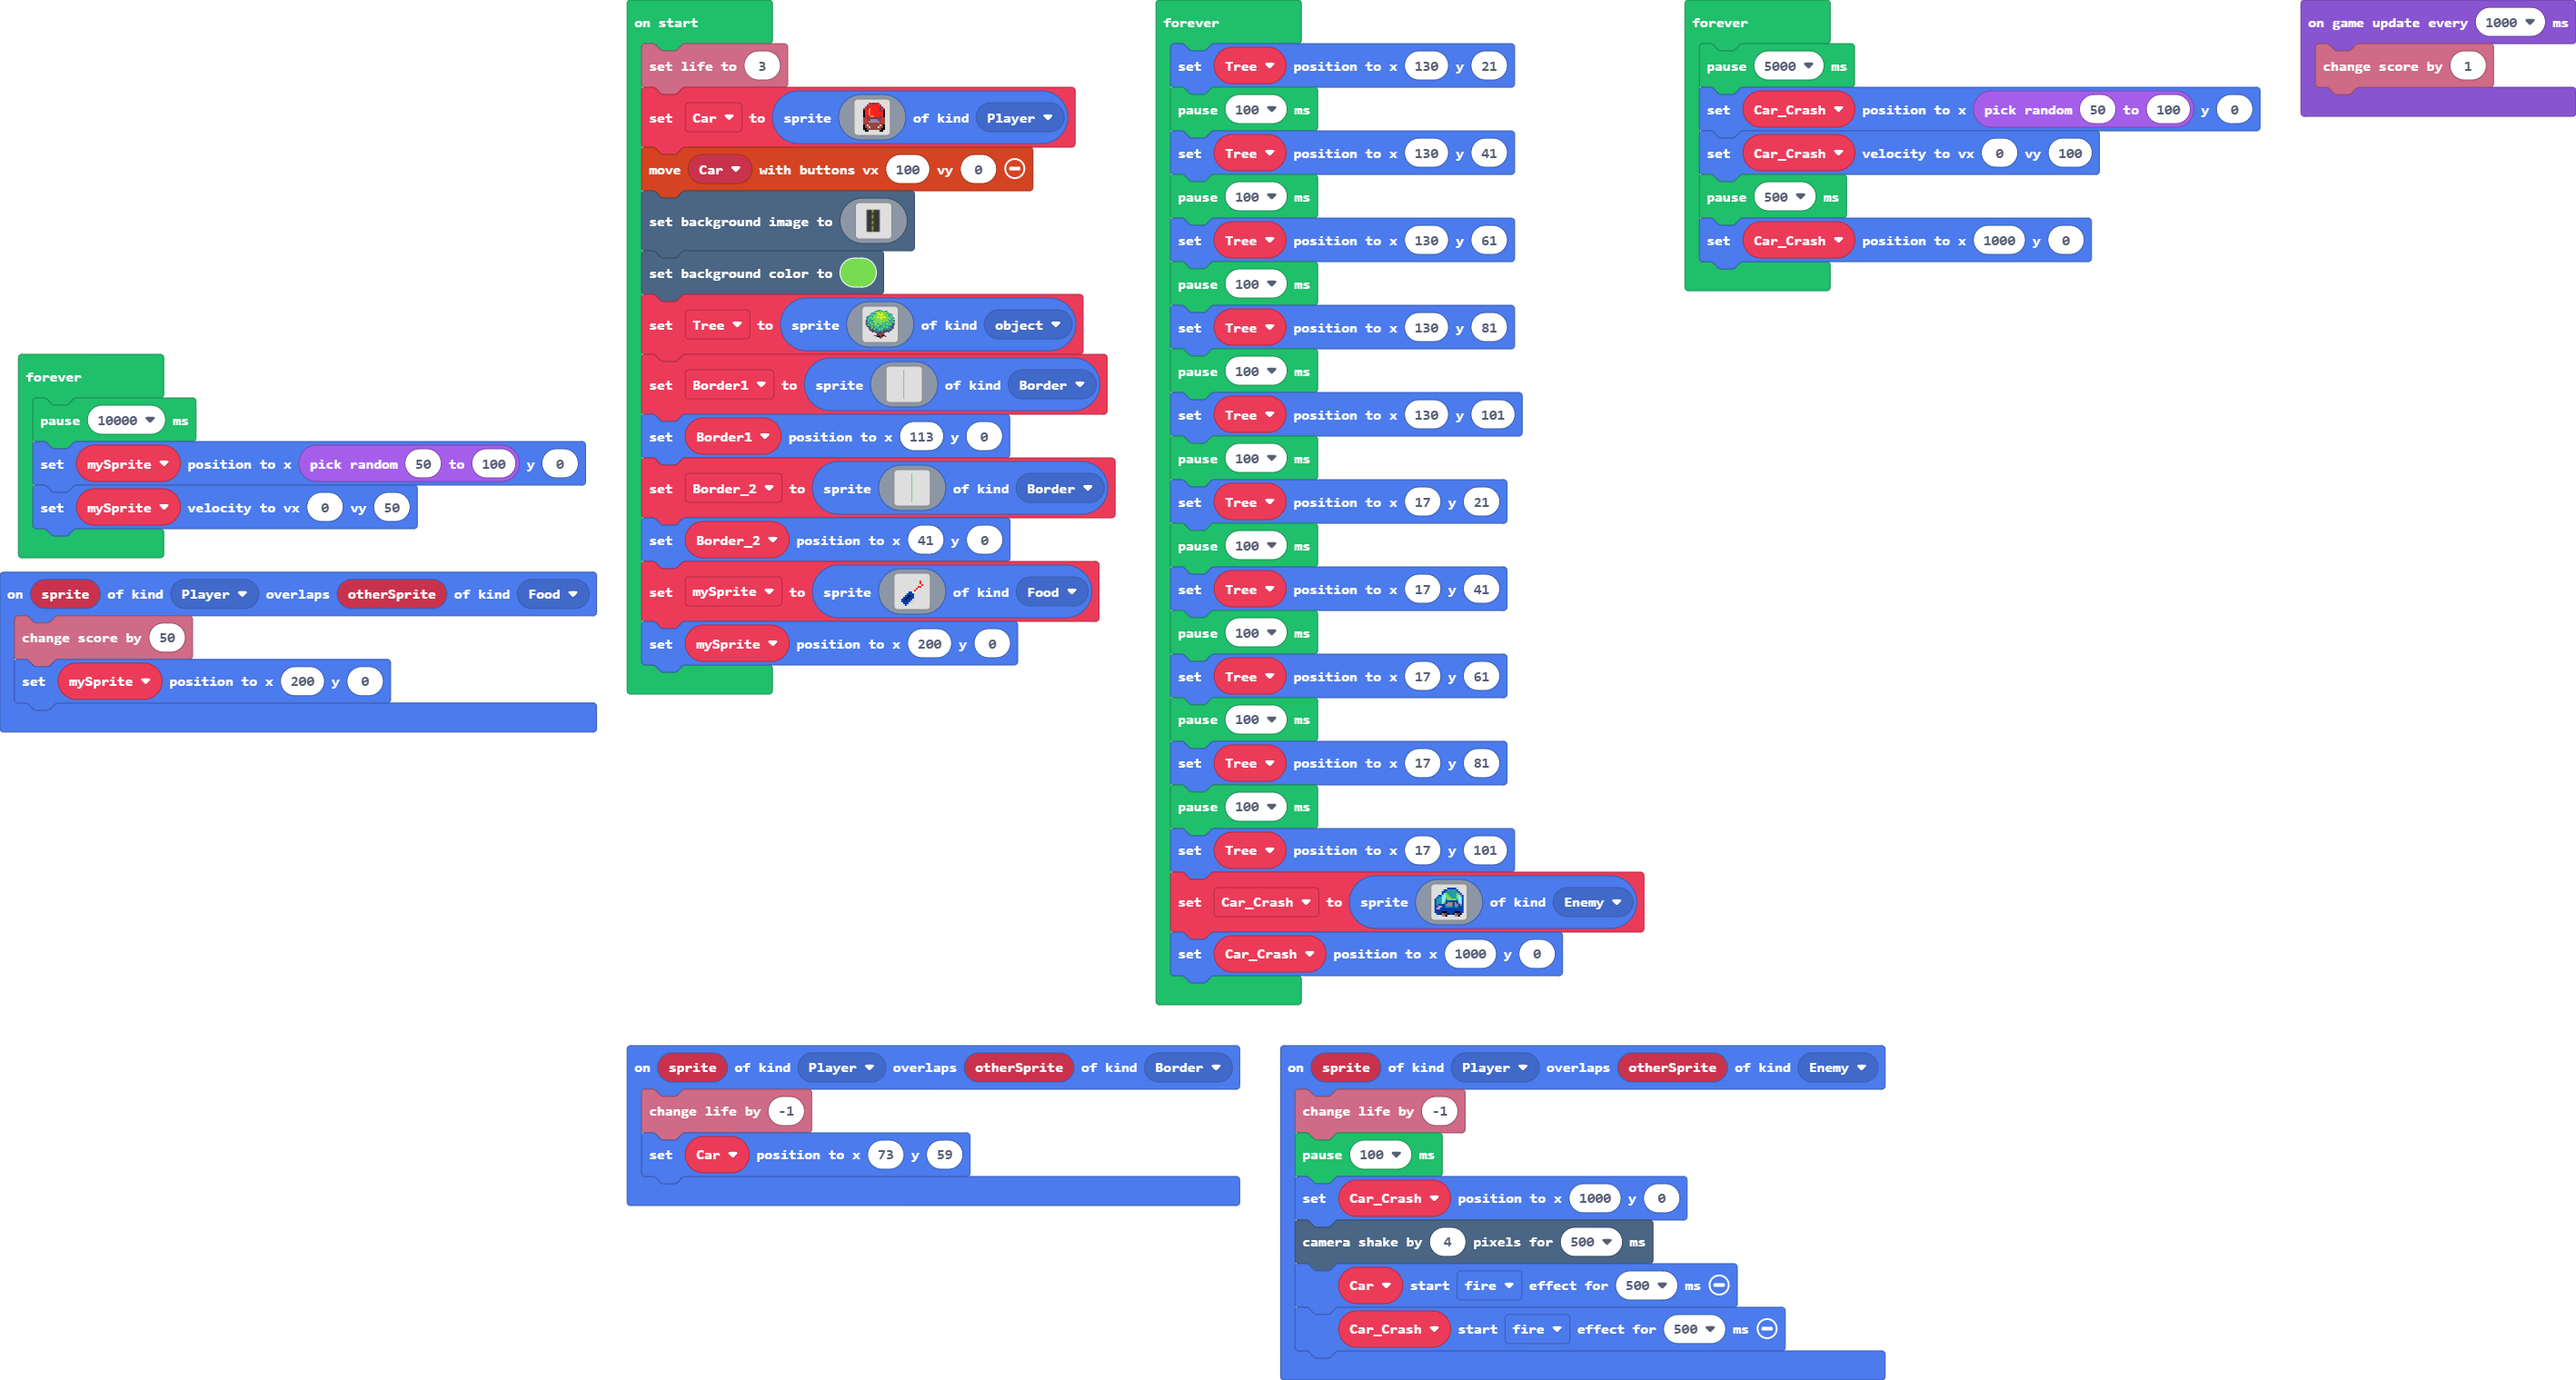
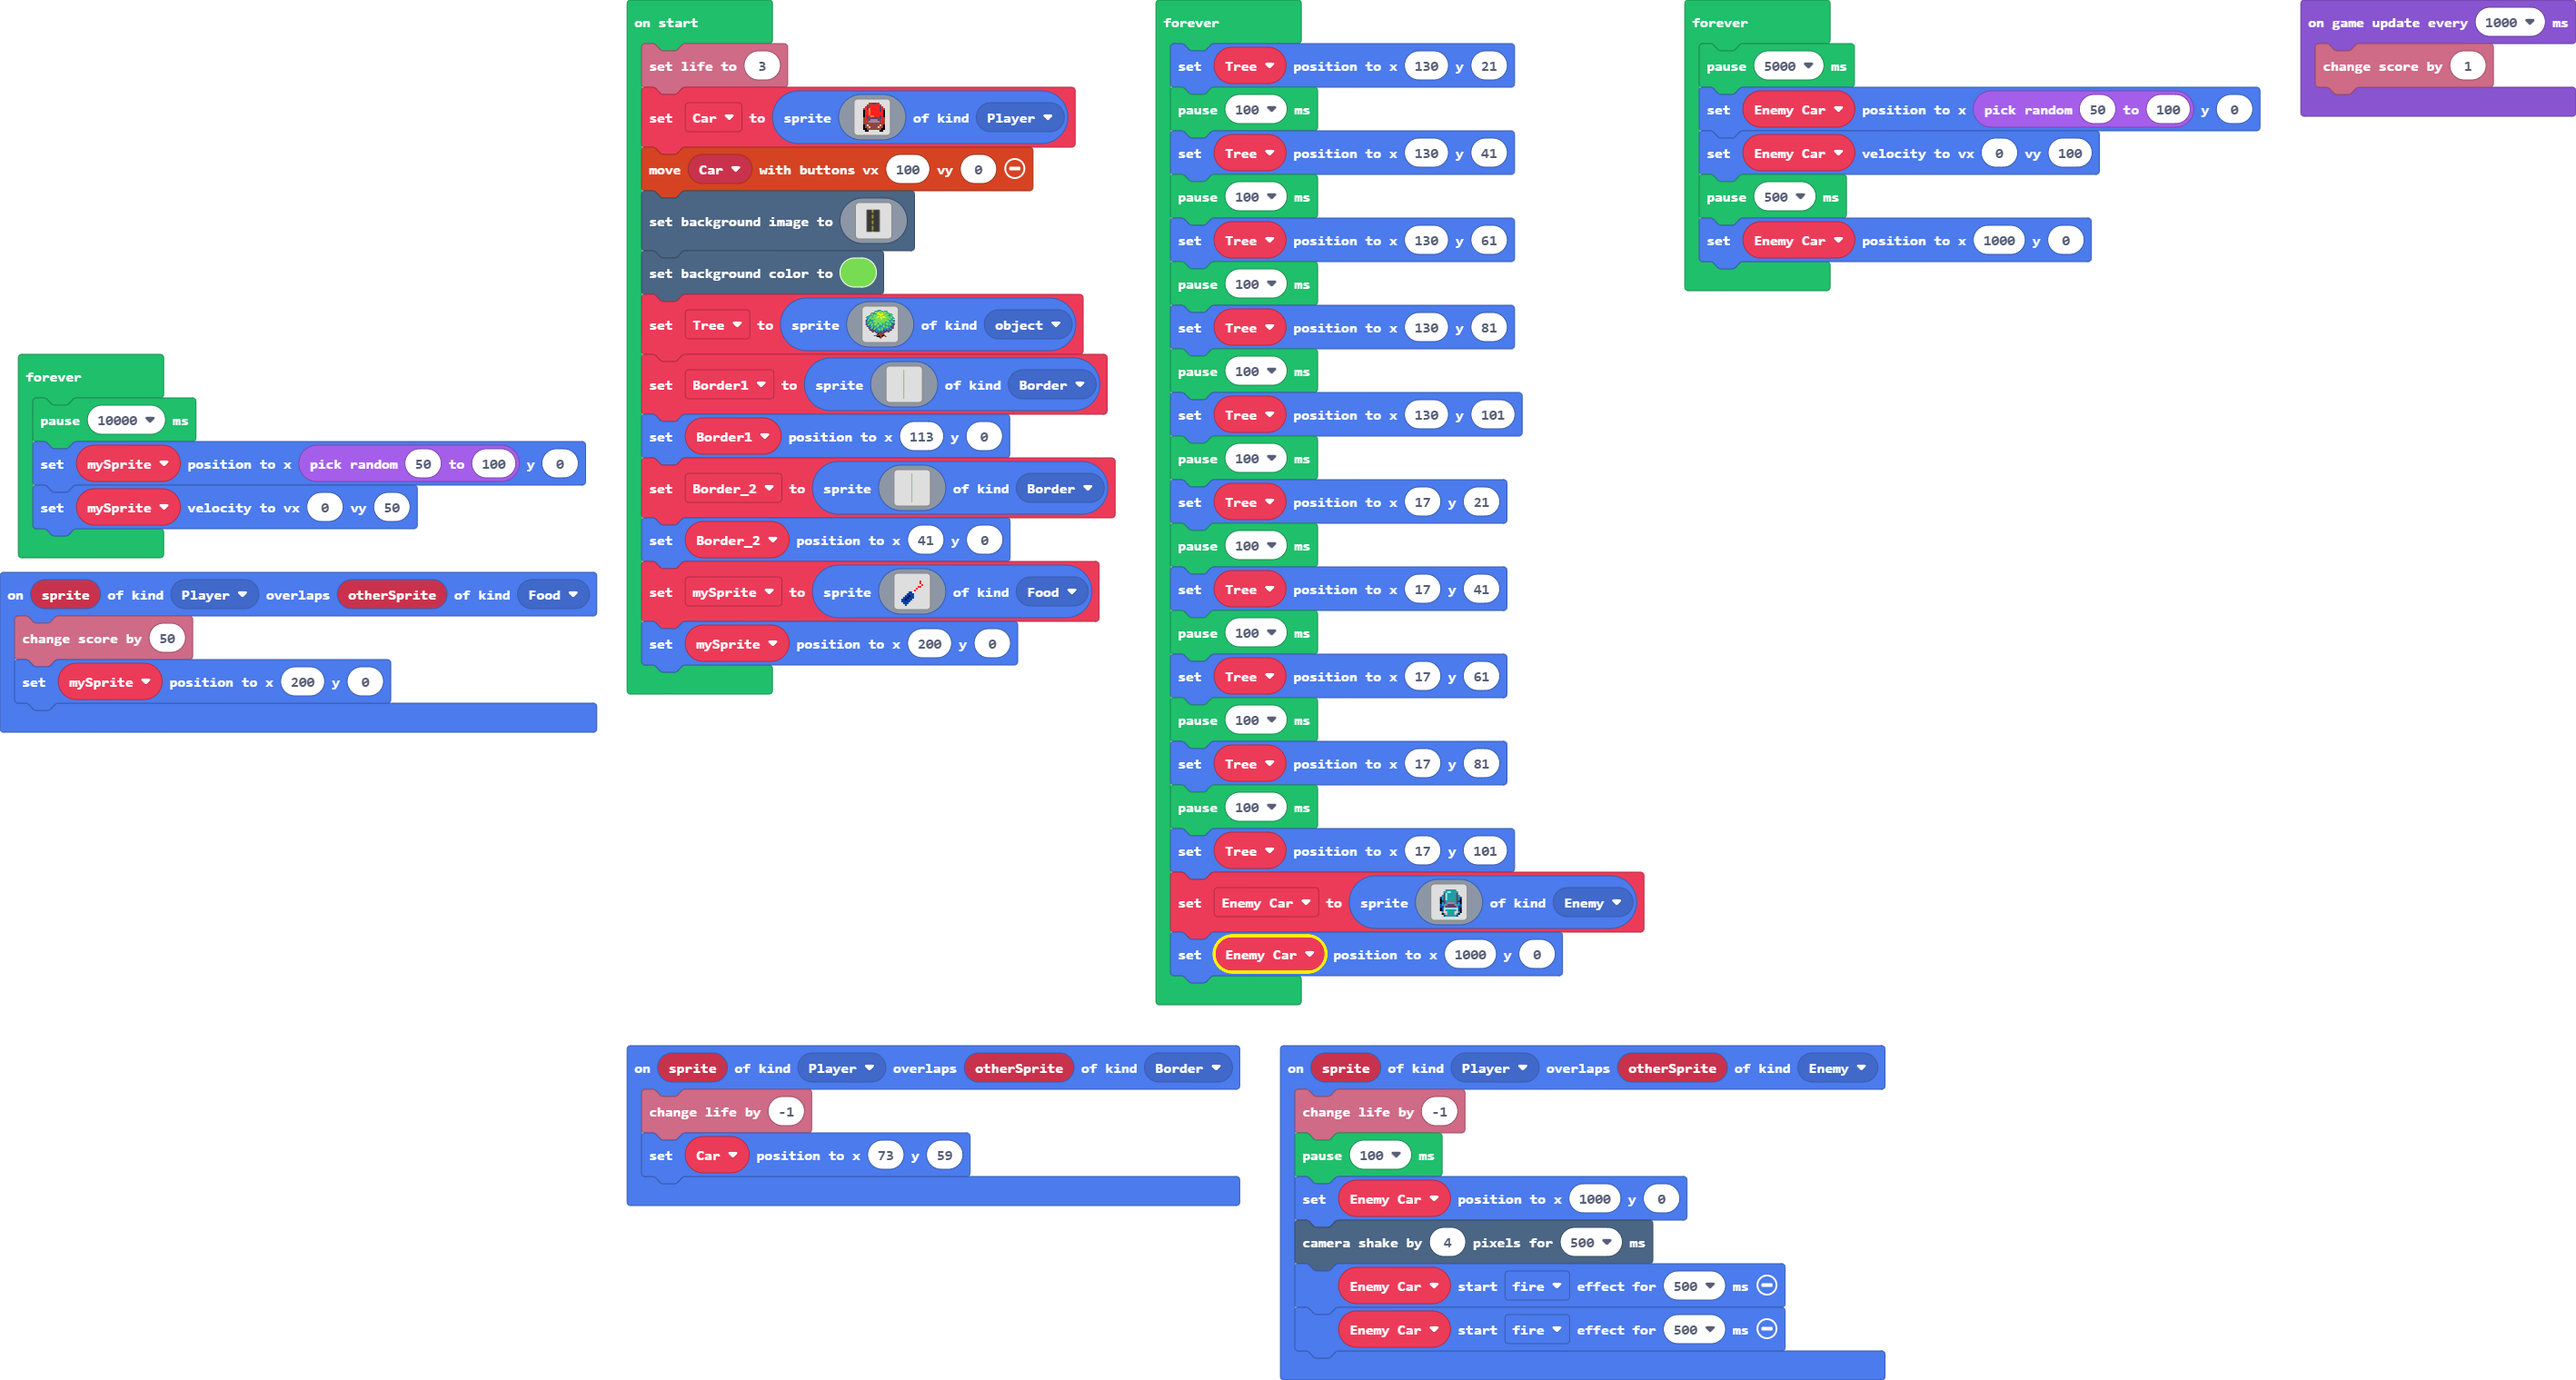
Update main.blocks, main.ts

diff --git a/main.ts b/main.ts
@@ -13,12 +13,12 @@ sprites.onOverlap(SpriteKind.Player, SpriteKind.Food, function (sprite, otherSpr
 sprites.onOverlap(SpriteKind.Player, SpriteKind.Enemy, function (sprite, otherSprite) {
     info.changeLifeBy(-1)
     pause(100)
-    Car_Crash.setPosition(1000, 0)
+    Enemy_Car.setPosition(1000, 0)
     scene.cameraShake(4, 500)
-    Car.startEffect(effects.fire, 500)
-    Car_Crash.startEffect(effects.fire, 500)
+    Enemy_Car.startEffect(effects.fire, 500)
+    Enemy_Car.startEffect(effects.fire, 500)
 })
-let Car_Crash: Sprite = null
+let Enemy_Car: Sprite = null
 let mySprite: Sprite = null
 let Car: Sprite = null
 info.setLife(3)
@@ -1246,32 +1246,32 @@ forever(function () {
     Tree.setPosition(17, 81)
     pause(100)
     Tree.setPosition(17, 101)
-    Car_Crash = sprites.create(img`
-        . . . . . . . 8 8 8 8 8 . . . . 
-        . . . . . 8 8 6 6 6 6 6 8 . . . 
-        . . . . 8 8 6 6 6 6 6 6 6 8 . . 
-        . . . . 8 9 7 6 6 6 6 6 7 b 8 . 
-        . . 8 8 9 9 7 7 6 6 6 6 7 9 b 8 
-        . 8 6 6 9 9 7 7 7 6 6 6 7 9 9 8 
-        8 6 6 6 9 9 6 7 7 7 7 7 6 9 9 8 
-        8 6 6 6 9 9 8 8 8 8 8 8 8 9 9 8 
-        8 6 6 6 9 b 8 b b b 8 b 8 b 9 8 
-        8 6 8 8 8 8 b b b b 8 b b 8 b 8 
-        8 8 3 3 8 8 6 6 6 6 8 6 6 8 8 8 
-        8 3 3 8 8 8 8 8 8 8 8 8 8 8 8 8 
-        8 8 8 8 8 8 8 8 8 8 8 8 8 8 8 8 
-        8 8 8 8 f f f 8 8 8 8 f f f 8 8 
-        . 8 8 f b c c f 8 8 f b c c f . 
-        . . . . b b f . . . . b b f . . 
+    Enemy_Car = sprites.create(img`
+        . . . . . . . . . . . . . . . . 
+        . . . . . . 6 6 6 6 6 6 . . . . 
+        . . . . . 6 6 9 9 6 6 6 6 . . . 
+        . . . . . c 9 6 6 6 6 6 c . . . 
+        . . . . 6 c 9 6 6 6 6 6 c 6 . . 
+        . . . 8 6 c 9 6 6 6 6 6 c 6 8 . 
+        . . . f 6 c 9 6 6 6 6 6 c 6 f . 
+        . . . f 8 c 6 6 6 6 6 6 c 8 f . 
+        . . . f 6 c 6 b b b b 6 c 6 f . 
+        . . . 8 6 6 b c c c c b 6 6 8 . 
+        . . . 8 8 b c c c c c c b 8 8 . 
+        . . . f 8 9 9 9 9 9 9 9 9 8 f . 
+        . . . f 8 d 6 6 6 6 6 6 d 8 f . 
+        . . . . 6 d d 6 6 6 6 d d 6 f . 
+        . . . . f 6 d 6 6 6 6 d 6 f . . 
+        . . . . . 8 6 6 6 6 6 6 8 . . . 
         `, SpriteKind.Enemy)
-    Car_Crash.setPosition(1000, 0)
+    Enemy_Car.setPosition(1000, 0)
 })
 forever(function () {
     pause(5000)
-    Car_Crash.setPosition(randint(50, 100), 0)
-    Car_Crash.setVelocity(0, 100)
+    Enemy_Car.setPosition(randint(50, 100), 0)
+    Enemy_Car.setVelocity(0, 100)
     pause(500)
-    Car_Crash.setPosition(1000, 0)
+    Enemy_Car.setPosition(1000, 0)
 })
 forever(function () {
     pause(10000)
